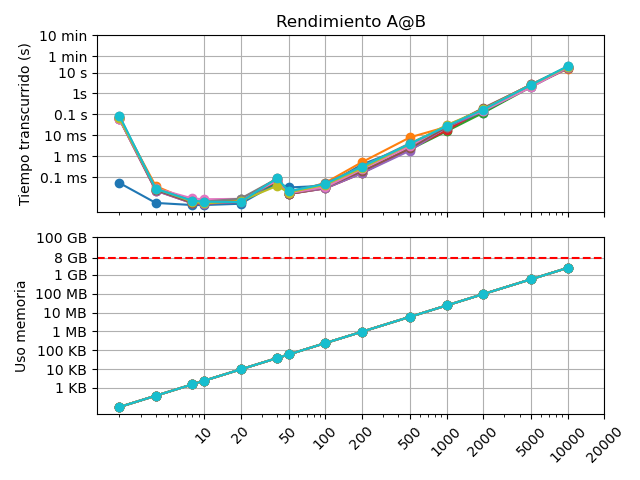
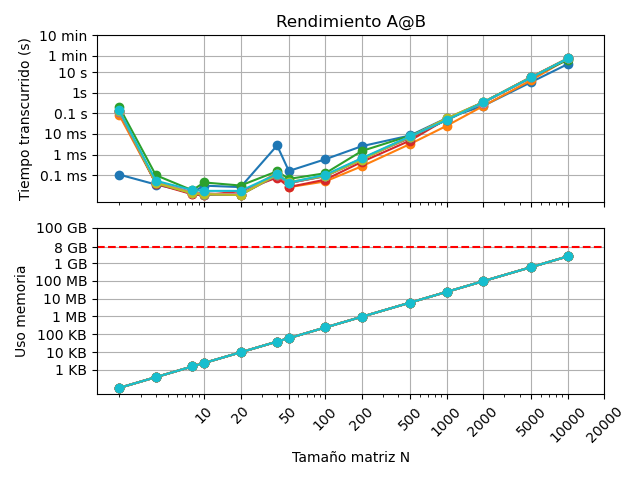
Entrega N°2 actualizados
Actualización de archivos

diff --git a/grafico.py b/grafico.py
@@ -16,57 +16,57 @@ warnings.filterwarnings("ignore", category=DeprecationWarning)
 warnings.filterwarnings("ignore", category=RuntimeWarning) 
 
 # -------------------------------------------------------------------------------------------------
-NCOR = 10
+NCOR = 10 #numero de corridas 
 dts_list = []
 mems_list = []
 
-for i in range(NCOR):
-    fin = f"corrida_{i+1}.txt"
-    datos = loadtxt(fin)
-    print (datos)
+for i in range(NCOR): #recorro la cantidad de numero de corridas 
+    fin = f"corrida_{i+1}.txt" #recorro el archivo de texto i creado por timing_matmul  
+    datos = loadtxt(fin) #cargo la informacion del archivo de texto "i" correspondiente 
+
+    Ns = datos[:,0] #accedo a todos los datos de la primera matriz eligiendo solo los de la primera columna (N)
+    dts = datos[:,1] #accedo a todos los datos de la primera matriz eligiendo solo los de la segunda columna (dt)
+    mems = datos[:,2] #accedo a todos los datos de la primera matriz eligiendo solo los de la tercera columna (memoria)
     
-    Ns = datos[:,0]
-    dts = datos[:,1]
-    mems = datos[:,2]
-    
-    dts_list.append(dts)
-    mems_list.append(mems)
+    dts_list.append(dts) #agrego todos los datos de la 2° columna (dt) de la matriz i  
+    mems_list.append(mems) #agrego todos los datos de la 3° columna (memoria) de la matriz i  
 
 # -------------------------------------------------------------------------------------------------
-plt.figure(1)
+plt.figure(1) #creo un grafico en blanco
 
-plt.subplot(2,1,1)
-plt.title("Rendimiento A@B")
-plt.ylabel("Tiempo transcurrido (s)")
+plt.subplot(2,1,1) #creo 2 gráficos pero trabajo en el primero
+plt.title("Rendimiento A@B") #le escribo el titulo principal a mis graficos
+plt.ylabel("Tiempo transcurrido (s)") #escribo el nombre correspondiente de la variable en eje y del primer grafico
 
-for l in range(NCOR):
-    dts = dts_list[l]
-    plt.loglog(Ns, dts,'-o')
+for l in range(NCOR): #recorro la cantidad de numero de corridas 
+    dts = dts_list[l] #denomino como dts a la variable en la posicion l de la lista dts_list para graficar
+    plt.loglog(Ns, dts,'-o') #grafico bilogaritmicamente N vs tiempo
     
-y1_vals = [0.1e-3, 1e-3, 1e-2, 0.1, 1, 10, 60, 60*10]
-y1_txt = ['0.1 ms',"1 ms","10 ms","0.1 s","1s","10 s","1 min","10 min"]
-plt.yticks(y1_vals,labels=y1_txt)
-x1_vals = [10, 20, 50, 100, 200, 500, 1000, 2000, 5000, 10000, 20000]
-x1_txt = [""]*len(x1_vals) #agrego nada porque no quiero labels 
-plt.xticks(x1_vals,x1_txt)
-plt.grid()
+y1_vals = [0.1e-3, 1e-3, 1e-2, 0.1, 1, 10, 60, 60*10] #valores de unidades de tiempo en eje y a escribir en este
+y1_txt = ['0.1 ms',"1 ms","10 ms","0.1 s","1s","10 s","1 min","10 min"] #unidades de tiempo en eje y
+plt.yticks(y1_vals,labels=y1_txt) #uso "ticks" para mostrar valores utilizados para mostrar ptos especificos en el grafico
+x1_vals = [10, 20, 50, 100, 200, 500, 1000, 2000, 5000, 10000, 20000] #valores a utilizar como tamaños N de matriz
+x1_txt = [""]*len(x1_vals) #agrego nada (literalmente) porque no quiero labels (texto en eje x)
+plt.xticks(x1_vals,x1_txt) #nuevamente uso "ticks" para mostrar los valores especificados en el grafico
+plt.grid() #hago la malla del grafico
 
-plt.subplot(2,1,2)
-plt.ylabel("Uso memoria")
+plt.subplot(2,1,2) #creo 2 gráficos pero ahora trabajo en el segundo
+plt.ylabel("Uso memoria") #escribo el nombre correspondiente de la variable en eje y del segundo grafico
+plt.xlabel("Tamaño matriz N") #nombre asignado al eje x
 
-for m in range(NCOR):
-    mems = mems_list[m]
-    plt.loglog(Ns,mems,'-o')
+for m in range(NCOR): #recorro la cantidad de numero de corridas 
+    mems = mems_list[m] #denomino como mems a la variable en la posicion m de la lista mems_list para graficar
+    plt.loglog(Ns,mems,'-o') #grafico bilogaritmicamente N vs memoria
 
-y2_vals = [10**3, 10**4, 10**5, 10**6, 10**7, 10**8, 10**9, 8*10**9, 10**11]
-y2_txt = ['1 KB',"10 KB","100 KB","1 MB","10 MB","100 MB","1 GB","8 GB","100 GB"]
-plt.yticks(y2_vals,labels=y2_txt)
-plt.axhline(y=8*10**9, xmin=0, color="r", linestyle = "--")
-x2_vals = [10, 20, 50, 100, 200, 500, 1000, 2000, 5000, 10000, 20000]
+y2_vals = [10**3, 10**4, 10**5, 10**6, 10**7, 10**8, 10**9, 8*10**9, 10**11] #valores de unidades de memoria en eje y
+y2_txt = ['1 KB',"10 KB","100 KB","1 MB","10 MB","100 MB","1 GB","8 GB","100 GB"] #unidades de memoria en eje y del segundo grafico
+plt.yticks(y2_vals,labels=y2_txt) #uso "ticks" para mostrar valores utilizados para mostrar ptos especificos en el grafico
+plt.axhline(y=8*10**9, xmin=0, color="r", linestyle = "--") #se establece una linea horizontal en 8GB, maxima capacidad de la RAM de mi computador
+x2_vals = [10, 20, 50, 100, 200, 500, 1000, 2000, 5000, 10000, 20000] #valores utilizados como N (tamaño matriz)
 x2_txt = ["10","20","50","100","200","500","1000","2000","5000","10000","20000"]
-plt.xticks(x2_vals,x2_txt,rotation=45)
-plt.grid()
+plt.xticks(x2_vals,x2_txt,rotation=45) #roto los valores establecidos anteriormente en 45°
+plt.grid() #ploteo la malla del segundo grafico
 
-plt.tight_layout()
-plt.savefig("Graficos")
-plt.show()
+plt.tight_layout() # se ajusta el grafico para que quede mas bonito y ordenado
+plt.savefig("Graficos") #se guarda la foto del grafico en la carpeta donde se está corriendo este programa
+plt.show() #muestra el grafico realizado
